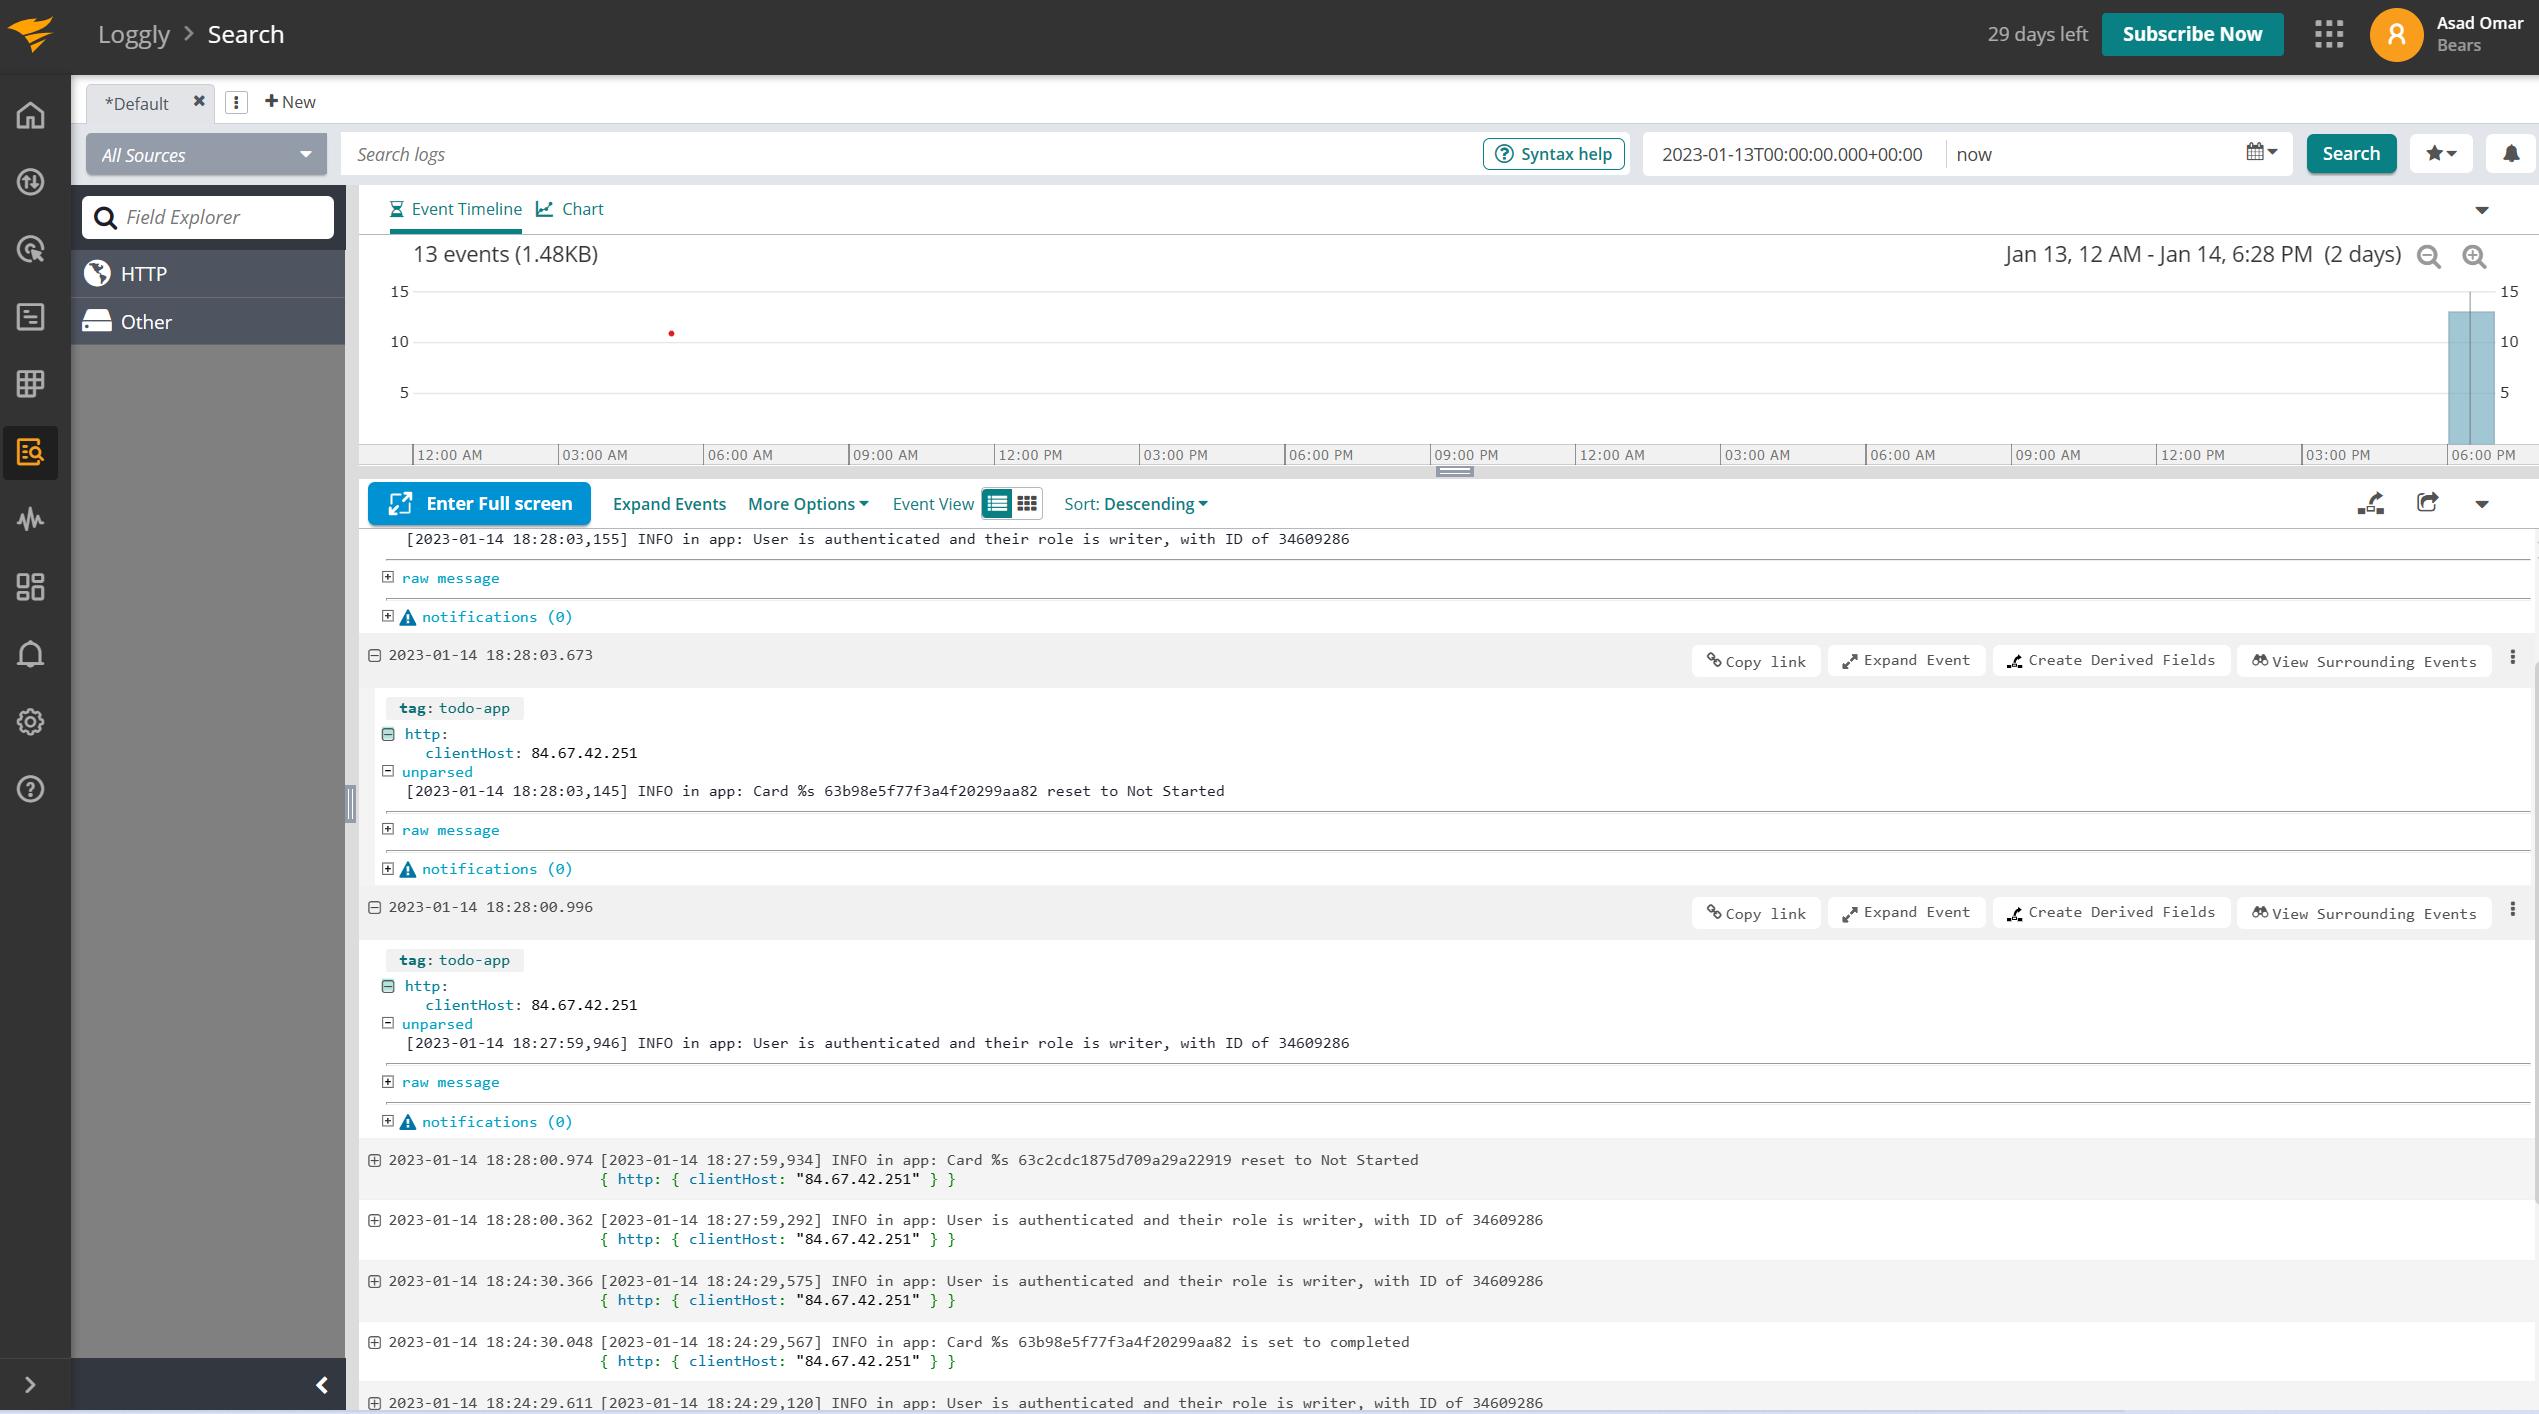
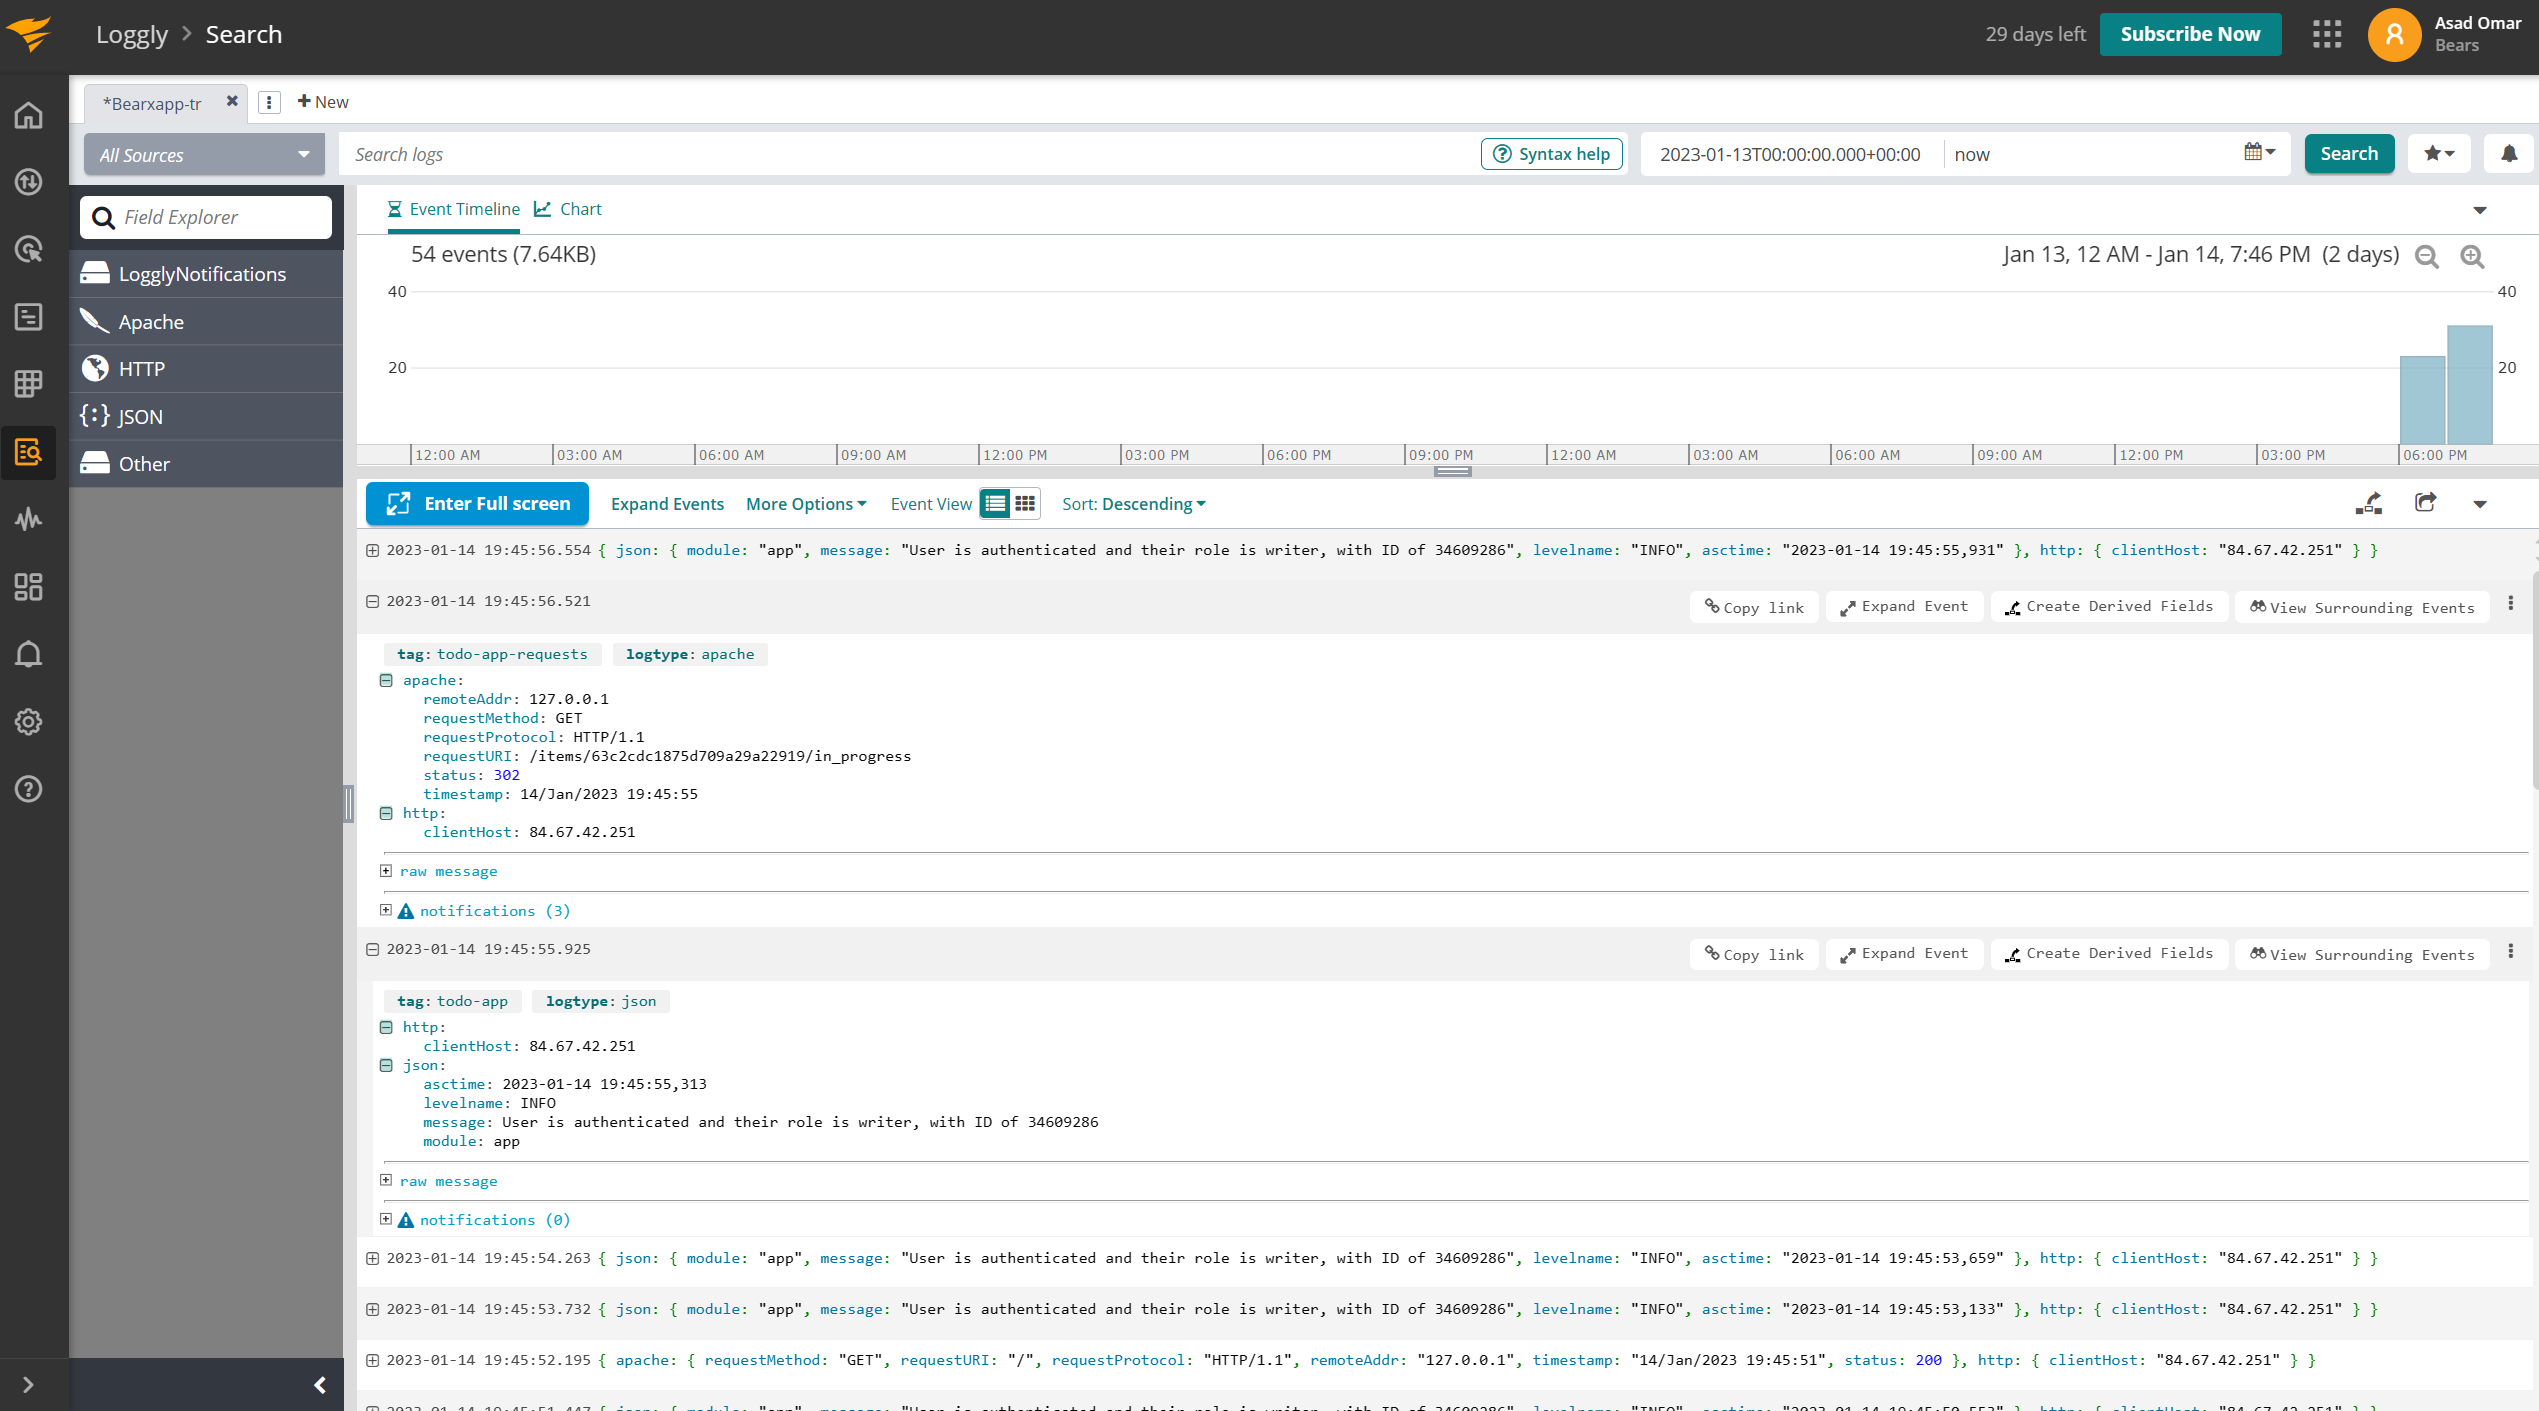
HTTP logs to loggly

diff --git a/todo_app/app.py b/todo_app/app.py
@@ -10,6 +10,7 @@ import string, random
 from loggly.handlers import HTTPSHandler
 from logging import Formatter
 from pythonjsonlogger import jsonlogger
+from logging import getLogger
 
 
 def user_authorised(func):
@@ -58,6 +59,9 @@ def create_app():
     if app.config['LOGGLY_TOKEN'] is not None:
         handler = HTTPSHandler(f'https://logs-01.loggly.com/inputs/{app.config["LOGGLY_TOKEN"]}/tag/todo-app')
         handler.setFormatter(jsonlogger.JsonFormatter("[%(asctime)s] %(levelname)s in %(module)s: %(message)s"))
+
+        getLogger('werkzeug').addHandler(HTTPSHandler(f'https://logs-01.loggly.com/inputs/{app.config["LOGGLY_TOKEN"]}/tag/todo-app-requests'))
+
         app.logger.addHandler(handler)
 
     @app.route('/login/callback', methods=['GET'])
